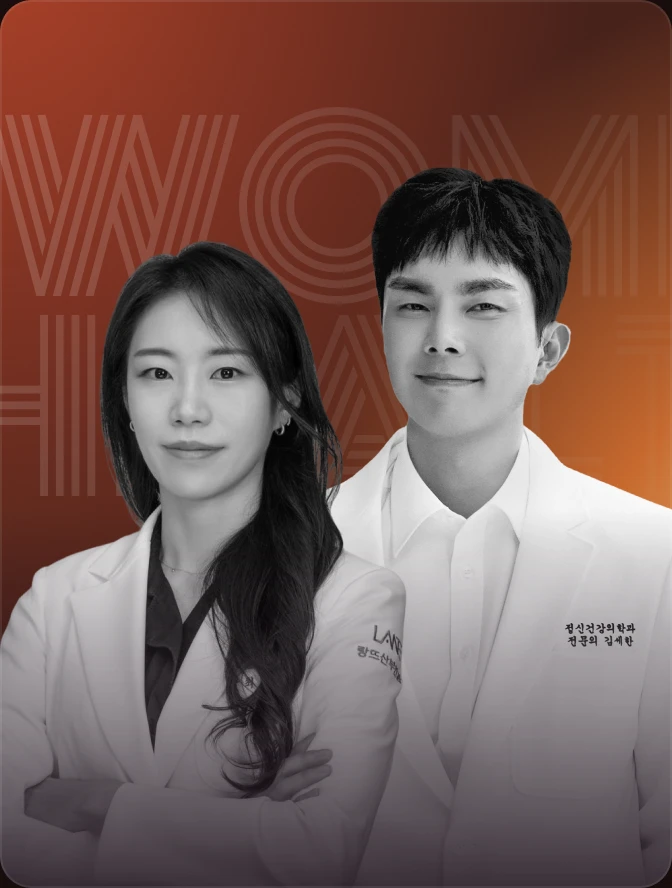
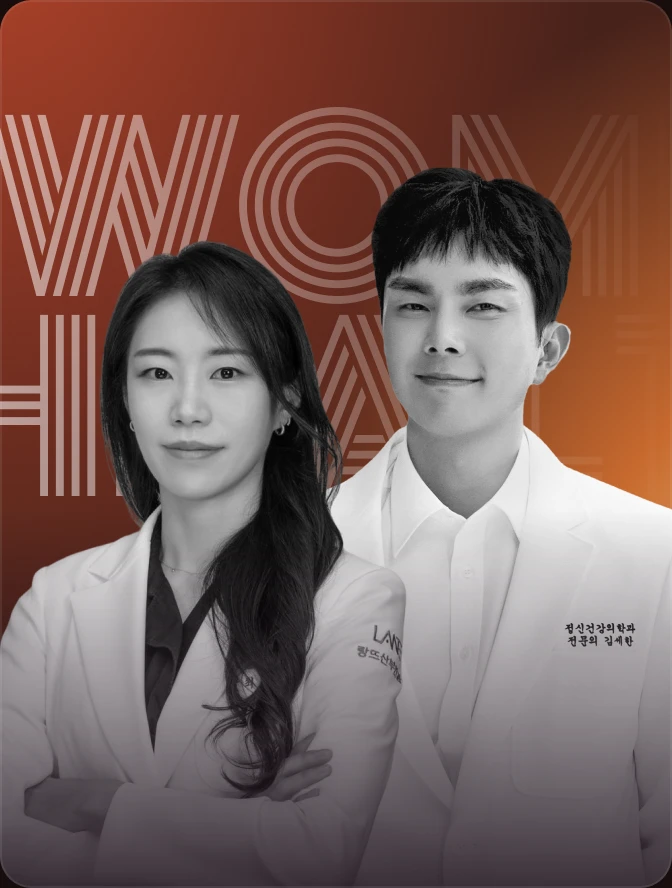
Lineup keyword: unified white gradient (left 60% → right 0%, 90% opacity), refresh SMCC portraits
Claude-Session: https://claude.ai/code/session_01R7psaqm8m7GEAGGww3SgQz

Changed region(s): [[0.0, 0.1216, 0.625, 0.5777]]

diff --git a/index.html b/index.html
@@ -711,6 +711,8 @@ body{letter-spacing:-0.01em}
 #program .av.logo img[alt="everybarre"]{height:30px}
 #program .av.logo + .av,#program .av + .av.logo{margin-left:10px}
 .l-card .l-book.sep{background:transparent;color:#fff;border:1px solid rgba(255,255,255,.75);padding:6px 11px}
+.l-type{-webkit-mask-image:linear-gradient(90deg,#000,transparent);mask-image:linear-gradient(90deg,#000,transparent)}
+.l-type span{opacity:.54;background:none;-webkit-background-clip:border-box;background-clip:border-box;color:#fff}
 </style>
 
 <script>
@@ -977,7 +979,7 @@ try{ if('scrollRestoration' in history) history.scrollRestoration='manual'; }cat
   const cardHTML=(r,clone)=>{ const ti=clone?' tabindex="-1" aria-hidden="true"':'';
     if(r[0]==='soon') return `<a class="l-card soon" href="${BOOKL}" target="_blank" rel="noopener"${ti}><div class="l-top"><span>LINEUP</span><b>COMING SOON</b></div><div class="soon-mid"><svg viewBox="0 0 24 24" width="44" height="44" aria-hidden="true"><path d="M12 1.5C12.7 7.4 16.6 11.3 22.5 12C16.6 12.7 12.7 16.6 12 22.5C11.3 16.6 7.4 12.7 1.5 12C7.4 11.3 11.3 7.4 12 1.5Z" fill="#fff"/></svg><h3>더 많은 연사가<br>곧 공개됩니다</h3></div><div class="l-bottom"><span class="l-book">롱진콘 신청하기 ↗</span></div></a>`;
     const [f,n,d,c,dt,t,[x,y,w]]=r;
-    return `<a class="l-card ${t}${r[8]?' duo':''}${n.includes(' · ')?' multi':''}" href="${f.startsWith('smcc_')?'https://www.instagram.com/seoulmorningcoffeeclub/':BOOKL}" target="_blank" rel="noopener"${ti}><div class="l-type" aria-hidden="true"><span>${WORD[f][0]}</span><span>${WORD[f][1]}</span></div>${r[8]?`<img src="img/${r[8][0]}.webp?v=3" alt="" loading="lazy" style="left:${r[8][1]}%;top:${r[8][2]}%;width:${r[8][3]}%;filter:none">`:''}<img src="img/${f}.webp${f==='ceo_lu'?'?v=7':f.startsWith('smcc_')?'?v=5':(f==='trio_lu')?'?v=8':(f==='lee_trio'||f==='khs_duo'||f==='noh_duo')?'?v=7':(f==='choi_duo')?'?v=1':(f==='woo_duo')?'?v=7':''}" alt="${clone?'':n}" loading="lazy" style="left:${x}%;top:${y}%;width:${w}%${(f==='ceo_lu'||f==='trio_lu'||f==='woo_duo'||f==='lee_trio'||f==='khs_duo'||f==='noh_duo'||f==='choi_duo'||f.startsWith('smcc_'))?';filter:none':''}">${r[8]?'<div style="position:absolute;left:-5.95%;top:66.89%;width:108.33%;height:36.71%;background:linear-gradient(rgba(14,46,90,0),#0E2E5A);pointer-events:none"></div>':''}${(f==='ceo_lu'||f==='trio_lu'||f==='woo_duo'||f==='lee_trio'||f==='khs_duo'||f==='noh_duo'||f==='choi_duo'||f.startsWith('smcc_'))?'':'<div class="scrim"></div>'}<div class="l-top"><span>${c}</span><b>${dt}</b></div><div class="l-bottom"><h3>${n}</h3><p>${d}</p><span class="l-book${f.startsWith('smcc_')?' sep':''}">${f.startsWith('smcc_')?'SMCC 별도 모집':'예매하기 ↗'}</span></div></a>`; };
+    return `<a class="l-card ${t}${r[8]?' duo':''}${n.includes(' · ')?' multi':''}" href="${f.startsWith('smcc_')?'https://www.instagram.com/seoulmorningcoffeeclub/':BOOKL}" target="_blank" rel="noopener"${ti}><div class="l-type" aria-hidden="true"><span>${WORD[f][0]}</span><span>${WORD[f][1]}</span></div>${r[8]?`<img src="img/${r[8][0]}.webp?v=3" alt="" loading="lazy" style="left:${r[8][1]}%;top:${r[8][2]}%;width:${r[8][3]}%;filter:none">`:''}<img src="img/${f}.webp${f==='ceo_lu'||f.startsWith('smcc_')||['trio_lu','lee_trio','khs_duo','noh_duo','woo_duo','choi_duo'].includes(f)?'?v=kw9':''}" alt="${clone?'':n}" loading="lazy" style="left:${x}%;top:${y}%;width:${w}%${(f==='ceo_lu'||f==='trio_lu'||f==='woo_duo'||f==='lee_trio'||f==='khs_duo'||f==='noh_duo'||f==='choi_duo'||f.startsWith('smcc_'))?';filter:none':''}">${r[8]?'<div style="position:absolute;left:-5.95%;top:66.89%;width:108.33%;height:36.71%;background:linear-gradient(rgba(14,46,90,0),#0E2E5A);pointer-events:none"></div>':''}${(f==='ceo_lu'||f==='trio_lu'||f==='woo_duo'||f==='lee_trio'||f==='khs_duo'||f==='noh_duo'||f==='choi_duo'||f.startsWith('smcc_'))?'':'<div class="scrim"></div>'}<div class="l-top"><span>${c}</span><b>${dt}</b></div><div class="l-bottom"><h3>${n}</h3><p>${d}</p><span class="l-book${f.startsWith('smcc_')?' sep':''}">${f.startsWith('smcc_')?'SMCC 별도 모집':'예매하기 ↗'}</span></div></a>`; };
   // 무한 루프: 같은 카드 세트를 앞·뒤로 한 벌씩 더 붙이고, 가운데 세트를 벗어나면 같은 위치의 가운데 카드로 몰래 점프
   rail.innerHTML=LV.map(c=>cardHTML(c,1)).join('')+LV.map(c=>cardHTML(c,0)).join('')+LV.map(c=>cardHTML(c,1)).join('');
   const cards=()=>rail.querySelectorAll('.l-card');
